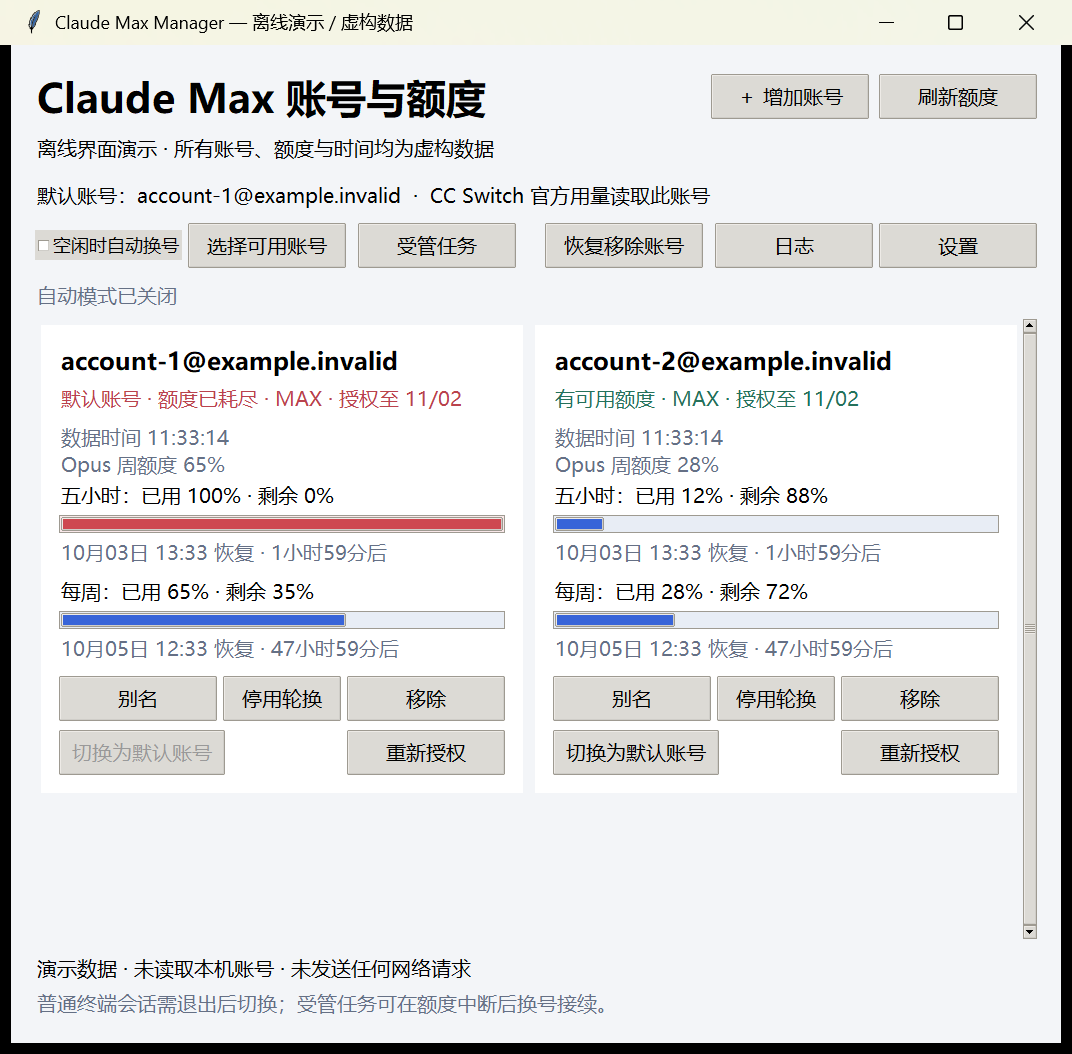
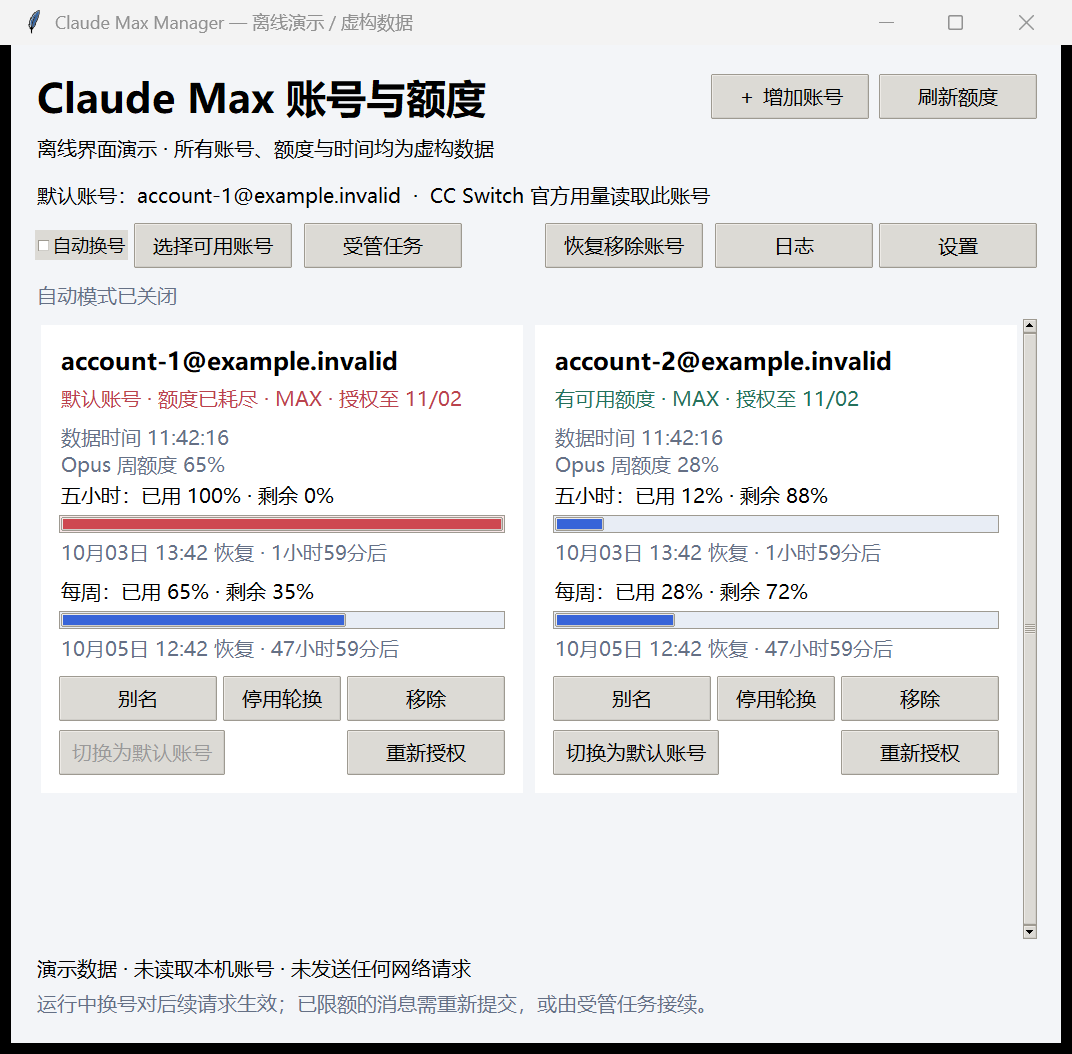
Support verified live account switching without restarting Claude

diff --git a/validate_hot_switch.py b/validate_hot_switch.py
@@ -1,0 +1,132 @@
+"""Explicit live validation of credential reload in ONE isolated CLI process."""
+import argparse
+import hashlib
+import json
+from pathlib import Path
+import queue
+import subprocess
+import sys
+import tempfile
+import threading
+import time
+import uuid
+
+import accounts
+from core import read, write
+from enhanced import Store
+
+
+def main():
+    parser = argparse.ArgumentParser(description=__doc__)
+    parser.add_argument('--available-slot', type=int, required=True)
+    parser.add_argument('--exhausted-slot', type=int, required=True)
+    parser.add_argument('--during-tool', action='store_true',
+                        help='Also prove adoption within a turn, during an isolated sleep tool call.')
+    args = parser.parse_args()
+    available, exhausted = args.available_slot, args.exhausted_slot
+    if available == exhausted or min(available, exhausted) < 1:
+        raise ValueError('Select two different positive slots.')
+    protected = [Path.home()/'.claude.json', accounts.LIVE/'.credentials.json']
+    before = {str(p): hashlib.sha256(p.read_bytes()).hexdigest() for p in protected}
+    with tempfile.TemporaryDirectory(prefix='claude-hot-validation-') as temporary:
+        base = Path(temporary)
+        live, root, cwd = base/'live', base/'accounts', base/'project'
+        cwd.mkdir()
+        for slot in (available, exhausted):
+            for name in ('.credentials.json', '.claude.json'):
+                write(root/f'max-{slot}'/name, read(accounts.ROOT/f'max-{slot}'/name))
+        for name in ('.credentials.json', '.claude.json'):
+            write(live/name, read(root/f'max-{available}'/name))
+        store = Store(root, live, live/'.claude.json', process_check=lambda: [])
+        write(base/'mcp.json', {'mcpServers': {}})
+        session = str(uuid.uuid4())
+        env = accounts.environment(available)
+        env['CLAUDE_CONFIG_DIR'] = str(live)
+        command = [str(accounts.CLI), '-p', '--input-format', 'stream-json',
+            '--output-format', 'stream-json', '--verbose', '--safe-mode', '--tools', 'Bash' if args.during_tool else '',
+            '--strict-mcp-config', str(base/'mcp.json'), '--session-id', session]
+        if args.during_tool:
+            command += ['--allowedTools', 'Bash(sleep:*)']
+        events = queue.Queue()
+        child = subprocess.Popen(command, cwd=str(cwd), env=env, stdin=subprocess.PIPE,
+            stdout=subprocess.PIPE, stderr=subprocess.PIPE, text=True, encoding='utf-8',
+            errors='replace', creationflags=subprocess.CREATE_NO_WINDOW)
+        def reader(stream, kind):
+            for line in stream:
+                events.put((kind, line))
+        for stream, kind in [(child.stdout, 'stdout'), (child.stderr, 'stderr')]:
+            threading.Thread(target=reader, args=(stream, kind), daemon=True).start()
+        print('Isolated CLI started; one PID for all turns:', child.pid, flush=True)
+        store.process_check = lambda: [child.pid] if child.poll() is None else []
+        def turn(label, prompt='Reply exactly OK. Do not use tools.', on_tool=None):
+            if child.poll() is not None:
+                raise RuntimeError('CLI exited before turn '+label)
+            child.stdin.write(json.dumps({'type': 'user', 'session_id': session,
+                'message': {'role': 'user', 'content': prompt}})+'\n')
+            child.stdin.flush()
+            deadline = time.monotonic()+90
+            limit = False
+            while time.monotonic() < deadline:
+                try:
+                    kind, line = events.get(timeout=1)
+                except queue.Empty:
+                    if child.poll() is not None:
+                        raise RuntimeError('CLI exited during '+label)
+                    continue
+                if kind != 'stdout':
+                    continue  # Raw stderr may contain private config; never publish it.
+                try:
+                    event = json.loads(line)
+                except ValueError:
+                    continue
+                if event.get('type') == 'assistant' and event.get('error') == 'rate_limit':
+                    limit = True
+                if on_tool and event.get('type') == 'assistant':
+                    for block in event.get('message', {}).get('content', []):
+                        if block.get('type') == 'tool_use' and block.get('name') == 'Bash':
+                            on_tool()
+                            on_tool = None
+                            break
+                if event.get('type') == 'result':
+                    assert event.get('session_id') == session, 'Session changed'
+                    verdict = 'limit' if limit else ('error' if event.get('is_error') else 'success')
+                    print(label+': '+verdict+'; process still running='+str(child.poll() is None), flush=True)
+                    return verdict
+            raise TimeoutError('No terminal response for '+label)
+        def activate(slot):
+            # Exercise the same public backend called by the desktop interface.
+            store.switch(slot, allow_running=True)
+            time.sleep(2)  # Allow the CLI file watcher to observe an atomic replace.
+        try:
+            assert turn('available before switch') == 'success'
+            if args.during_tool:
+                switched = []
+                def during_tool():
+                    activate(exhausted)
+                    switched.append(True)
+                    print('Swapped credentials after assistant requested Bash sleep, before its next inference.',flush=True)
+                assert turn('exhausted within same turn',
+                    'Use the Bash tool to run exactly sleep 8 once, then reply OK. Do not run any other command.',
+                    during_tool) == 'limit'
+                assert switched, 'Tool boundary was not exercised'
+            else:
+                activate(exhausted)
+                assert turn('exhausted after live switch') == 'limit'
+            activate(available)
+            assert turn('available after second live switch') == 'success'
+            assert child.poll() is None, 'Same process must remain alive'
+            print('PASS: success -> rate_limit -> success with unchanged PID and session.', flush=True)
+        finally:
+            child.stdin.close()
+            try:
+                child.wait(timeout=10)
+            except subprocess.TimeoutExpired:
+                child.terminate()  # Only our isolated, tools-disabled validation process.
+                child.wait(timeout=10)
+    after = {str(p): hashlib.sha256(p.read_bytes()).hexdigest() for p in protected}
+    print('Global configuration unchanged:', before == after, flush=True)
+
+
+if __name__ == '__main__':
+    sys.stdout.reconfigure(encoding='utf-8')
+    main()

diff --git a/test_features.py b/test_features.py
@@ -5,6 +5,7 @@ from pathlib import Path
 import tempfile
 import time
 import unittest
+from types import SimpleNamespace
 from unittest.mock import patch
 import urllib.error
 
@@ -125,19 +126,53 @@ class ContractTests(unittest.TestCase):
         self.assertEqual(retry_seconds('60'),60)
         self.assertEqual(retry_seconds('Thu, 01 Jan 1970 00:10:00 GMT',now=0),600)
 
-    def test_auto_waits_for_process_and_respects_cooldown(self):
+    def test_auto_switches_running_process_and_respects_cooldown(self):
         self.store.save_settings({'auto_enabled':True})
         rows=[self.row(1,100,20),self.row(2,10,20)]
         self.store.process_check=lambda:[8888]
         with patch('enhanced.runner_active',return_value=False), patch.object(self.store,'switch') as switch:
-            self.assertIn('需退出',self.store.auto_step(rows))
-            switch.assert_not_called()
-            self.store.process_check=lambda:[]
             self.assertIn('已自动切换到账号 2',self.store.auto_step(rows))
-            switch.assert_called_once_with(2)
+            switch.assert_called_once_with(2, allow_running=True)
             write(self.root/'rotation.json',{'last_switch':time.time()})
             self.assertIn('冷却',self.store.auto_step(rows))
             self.assertEqual(switch.call_count,1)
+
+    def test_live_switch_preserves_shared_state_and_uses_all_locks(self):
+        self.store.process_check=lambda:[123]
+        config=read(self.store.config)
+        config['mcpServers']={'fixture':{'command':'fixture-command'}}
+        config['projects']={'fixture-project':{'hasTrustDialogAccepted':True}}
+        write(self.store.config,config)
+        def verify(*args,**kwargs):
+            for lock in [self.live/'.oauth_refresh.lock',self.live.with_name('live.lock'),self.store.config.with_name('.claude.json.lock')]:
+                self.assertTrue(lock.is_dir())
+            return SimpleNamespace(returncode=0,stdout=json.dumps({'loggedIn':True,'email':'account-2@example.invalid'}))
+        with patch('enhanced.require_live_switch_support'), patch('core.subprocess.run',side_effect=verify):
+            self.assertIn('后续请求',self.store.switch(2,allow_running=True))
+        self.assertEqual(self.store.current(),'uuid-2')
+        self.assertEqual(read(self.live/'.credentials.json')['mcpOAuth'],{'keep':'fixture'})
+        self.assertEqual(read(self.store.config)['mcpServers'],config['mcpServers'])
+        self.assertEqual(read(self.store.config)['projects'],config['projects'])
+        self.assertFalse((self.root/'pending-switch.json').exists())
+        self.assertFalse((self.live/'.oauth_refresh.lock').exists())
+
+    def test_failed_live_switch_restores_credentials_and_identity(self):
+        self.store.process_check=lambda:[123]
+        before=[read(p) for p in [self.store.config,self.live/'.credentials.json']]
+        rejected=SimpleNamespace(returncode=0,stdout=json.dumps({'loggedIn':True,'email':'unexpected@example.invalid'}))
+        with patch('enhanced.require_live_switch_support'), patch('core.subprocess.run',return_value=rejected):
+            with self.assertRaises(RuntimeError):self.store.switch(2,allow_running=True)
+        self.assertEqual(before,[read(p) for p in [self.store.config,self.live/'.credentials.json']])
+        self.assertFalse((self.root/'pending-switch.json').exists())
+
+    def test_unverified_version_cannot_live_switch(self):
+        self.store.process_check=lambda:[123]
+        before=(self.live/'.credentials.json').read_bytes()
+        version=SimpleNamespace(returncode=0,stdout='0.0.0 (fixture)')
+        with patch('enhanced.subprocess.run',return_value=version):
+            with self.assertRaisesRegex(RuntimeError,'尚未验证'):
+                self.store.switch(2,allow_running=True)
+        self.assertEqual(before,(self.live/'.credentials.json').read_bytes())
 
     def test_exhausted_pool_waits_and_runner_owns_rotation(self):
         self.store.save_settings({'auto_enabled':True})

diff --git a/manager.py b/manager.py
@@ -82,7 +82,7 @@ class App:
         toolbar = ttk.Frame(outer)
         toolbar.pack(fill='x', pady=(0, 12))
         self.auto_value = tk.BooleanVar(value=self.store.settings()['auto_enabled'])
-        ttk.Checkbutton(toolbar, text='空闲时自动换号', variable=self.auto_value, command=self.toggle_auto).pack(side='left')
+        ttk.Checkbutton(toolbar, text='自动换号', variable=self.auto_value, command=self.toggle_auto).pack(side='left')
         ttk.Button(toolbar, text='选择可用账号', command=self.best_account).pack(side='left', padx=6)
         ttk.Button(toolbar, text='受管任务', command=self.managed_dialog).pack(side='left', padx=6)
         ttk.Button(toolbar, text='设置', command=self.settings_dialog).pack(side='right')
@@ -106,7 +106,7 @@ class App:
         self.build_cards()
         self.note = ttk.Label(outer, text='正在读取官方额度…', wraplength=970)
         self.note.pack(anchor='w', pady=(14, 4))
-        ttk.Label(outer, text='普通终端会话需退出后切换；受管任务可在额度中断后换号接续。', foreground='#657085').pack(anchor='w')
+        ttk.Label(outer, text='运行中换号对后续请求生效；已限额的消息需重新提交，或由受管任务接续。', foreground='#657085').pack(anchor='w')
         window.update_idletasks()
         width = max(1050, window.winfo_reqwidth())
         height = min(max(760, window.winfo_reqheight()), window.winfo_screenheight() - 100)
@@ -388,7 +388,7 @@ class App:
             value = tk.StringVar(value=str(current[key]))
             ttk.Entry(body, textvariable=value, width=24).grid(row=row, column=1, padx=12)
             fields[key] = value
-        ttk.Label(body, text='访问令牌按需自动刷新；刷新授权失效时提示重新登录。\n自动模式仅在没有普通 Claude 进程时切换。\n受管任务在确认额度错误并退出后换号、恢复同一会话。', wraplength=520).grid(row=4, column=0, columnspan=2, pady=12)
+        ttk.Label(body, text='访问令牌按需自动刷新；刷新授权失效时提示重新登录。\n已验证 Windows Claude 2.1.288 运行中切换，后续请求生效。\n已经发出的请求不变；受管任务可在额度中断后换号接续。', wraplength=520).grid(row=4, column=0, columnspan=2, pady=12)
         def save():
             try:
                 values = {k: (v.get().strip() if k == 'model' else int(v.get())) for k, v in fields.items()}
@@ -521,14 +521,11 @@ class App:
         try:
             if runner_active():
                 raise RuntimeError('受管任务正在管理账号，请先在“受管任务”中停止它，再手动切换。')
-            processes = self.store.process_check()
-            if processes:
-                raise RuntimeError('Claude Code 仍在运行（PID ' + ', '.join(map(str, processes)) + '）。请在原终端保存进度并退出 Claude，再点击切换。')
             result = self.results.get(slot, {})
             exhausted = any(w.get('utilization', 0) >= 100 for w in result.get('windows', {}).values())
             if exhausted and not messagebox.askyesno('目标账号额度已耗尽', '该账号有额度窗口已耗尽。仍要将它设为默认账号吗？'):
                 return
-            self.run_job(lambda: self.store.switch(slot), 'switch')
+            self.run_job(lambda: self.store.switch(slot, allow_running=True), 'switch')
         except Exception as exc:
             messagebox.showerror('未切换账号', str(exc))
 

diff --git a/enhanced.py b/enhanced.py
@@ -15,6 +15,7 @@ import math
 import os
 from pathlib import Path
 import subprocess
+import sys
 import threading
 import time
 import urllib.error
@@ -81,6 +82,17 @@ def runner_active():
     kernel.CloseHandle.argtypes = [ctypes.c_void_p]
     kernel.CloseHandle(handle)
     return True
+
+
+def require_live_switch_support():
+    """Gate live writes on the exact native CLI version exercised end to end."""
+    if sys.platform != 'win32':
+        raise RuntimeError('运行中切换目前只在 Windows 验证；请退出 Claude 后切换。')
+    result = subprocess.run([str(accounts.CLI), '--version'], capture_output=True,
+                            encoding='utf-8', timeout=15, creationflags=NO_WINDOW)
+    version = result.stdout.strip().split(' ', 1)[0]
+    if result.returncode or version != '2.1.288':
+        raise RuntimeError('此 Claude 版本尚未验证运行中切换（已验证 2.1.288）；请退出 Claude 后切换。')
 
 
 class Store(BasicStore):
@@ -327,10 +339,18 @@ class Store(BasicStore):
                 usable.append((level, slot))
         return min(usable)[1] if usable else None
 
-    def switch(self, slot):
+    def switch(self, slot, *, allow_running=False):
+        # Resolve compatibility before acquiring the official file-write locks.
+        if allow_running and self.process_check():
+            require_live_switch_support()
+            active_pids = self.process_check()
+            for path in (self.live / 'sessions').glob('*.json'):
+                info = read(path)
+                if info.get('pid') in active_pids and info.get('version') not in (None, '2.1.288'):
+                    raise RuntimeError('发现未验证版本的运行中会话，请退出该会话后切换。')
         self.token(slot)
         with self.mutex, directory_lock(self.root / '.manager.lock'), self.credential_locks(self.live, self.config):
-            message = super().switch(slot)
+            message = super().switch(slot, allow_running=allow_running)
             write(self.root / 'rotation.json', {'last_switch': time.time(), 'slot': slot})
             self.log('account_switched', slot=slot)
             return message
@@ -354,7 +374,5 @@ class Store(BasicStore):
             return '没有额度充足且启用的备用账号，等待额度恢复'
         if self.relevant(current) - self.relevant(next(r for r in rows if r['slot'] == target)) < settings['min_improvement']:
             return '备用额度差异较小，保持当前账号'
-        if self.process_check():
-            return '已有可用备用账号；普通会话需退出，受管会话将在限额中断后自动接续'
-        self.switch(target)
-        return f'已自动切换到账号 {target}'
+        self.switch(target, allow_running=True)
+        return f'已自动切换到账号 {target}，后续请求使用新账号；已限额的消息需重新提交或由受管任务接续'

diff --git a/core.py b/core.py
@@ -146,9 +146,9 @@ class Store:
             result['error'] = '网络超时或响应无效，稍后刷新'
         return result
 
-    def switch(self, slot):
+    def switch(self, slot, *, allow_running=False):
         processes = self.process_check()
-        if processes:
+        if processes and not allow_running:
             raise RuntimeError('Claude Code 仍在运行（PID ' + ', '.join(map(str, processes)) +
                 '）。请先在原终端保存进度并退出 Claude，再切换；本工具不会强行终止任务。')
         incoming_config = read(self.profile(slot) / '.claude.json')
@@ -183,7 +183,7 @@ class Store:
                     'passesEligibilityCache', 'clientDataCacheSlots', 'promoStartupStatusCache',
                     'modelAccessCache', 'orgModelDefaultCache', 'cachedArtifactRoster']:
             updated.pop(key, None)
-        if self.process_check():
+        if self.process_check() and not allow_running:
             raise RuntimeError('切换前发现新启动的 Claude Code，已取消切换。')
         pending = self.root / 'pending-switch.json'
         write(pending, {'from': old_slot, 'to': slot})
@@ -206,4 +206,6 @@ class Store:
             write(self.config, original_config)
             pending.unlink(missing_ok=True)
             raise
-        return '已切换到 ' + identity['emailAddress'] + '。新启动的 Claude Code 将使用此账号。'
+        return ('已切换到 ' + identity['emailAddress'] +
+                ('。运行中会话的后续请求将读取新凭据；已发出的请求不变，限额后的消息需重新提交。' if allow_running
+                 else '。新启动的 Claude Code 将使用此账号。'))

diff --git a/docs/hot-switch.md b/docs/hot-switch.md
@@ -1,0 +1,42 @@
+# 运行中切换：实现与实测边界
+
+## 参考实现实际做了什么
+
+检查 [claude-swap 的 switcher.py](https://github.com/realiti4/claude-swap/blob/main/src/claude_swap/switcher.py) 中 `_perform_switch`、[credentials.py](https://github.com/realiti4/claude-swap/blob/main/src/claude_swap/credentials.py) 中 `_write_active_credentials_file` 和 [claude_locks.py](https://github.com/realiti4/claude-swap/blob/main/src/claude_swap/claude_locks.py)：它没有模拟 `/login`、发送终端按键或重启 Claude。它保存离开账号的凭据，在官方文件锁保护下原子写入目标 OAuth 凭据和 `oauthAccount`，依赖 Claude Code 检测凭据变化并重读。
+
+本机 Claude Code 2.1.288 的文件凭据读取路径也能观察到对 `.credentials.json` 修改时间变化的检查及缓存清除。不过，代码标记本身不构成运行中切换成功的证据，所以随后进行了真实请求测试。
+
+## 本工具的实现
+
+1. 确认 Windows、本机 CLI 版本及已记录的运行中会话版本。当前运行中切换只放行实测过的 2.1.288；其他版本可以退出 CLI 后使用普通切换。
+2. 检查目标令牌，需要时先尝试刷新。
+3. 按同一顺序持有工具锁、`.oauth_refresh.lock`、配置目录的 legacy 锁以及身份配置锁；锁存活期间更新心跳，不抢占别人的锁。
+4. 重新读取并备份当前身份和最新令牌，只替换账号 OAuth 区块及身份信息，保留 MCP 授权、项目和用户设置。
+5. 原子替换文件，通过官方本地 `auth status` 检查身份；失败恢复原文件，持久化事务记录用于处理异常中断。
+6. 返回“后续请求生效”，不声称已经改变某个正在传输的请求，也不向终端注入“继续”。
+
+桌面手动切换和阈值自动切换调用同一个后端。受管任务继续使用自己的调度器；桌面端检测其运行状态，避免两套调度同时换号。
+
+## 真实验证（2026-10-03）
+
+环境：Windows、官方 Claude Code 2.1.288。独立临时 `CLAUDE_CONFIG_DIR`、独立测试项目，使用自己的两个已授权 Max 账号。真实凭据和会话不进入此仓库。
+
+| 场景 | 观察结果 |
+| --- | --- |
+| 可用账号发起请求 | 成功 |
+| 保持进程，后端切换到耗尽账号，再发起请求 | 真实 `rate_limit` |
+| 保持进程，切回可用账号，再发起请求 | 成功 |
+| 一轮任务的 Bash 等待工具调用阶段切换到耗尽账号 | 该轮后续推理返回真实 `rate_limit` |
+| 工具阶段切换后，再切回可用账号 | 原进程继续成功 |
+
+各轮 PID 和会话 ID 不变；没有退出、重启或 `--resume`。脚本结束时只关闭自己创建的测试进程，并删除临时凭据。全局身份与凭据文件的前后哈希一致。
+
+`validate_hot_switch.py` 可复现这些路径。`test_features.py` 另覆盖运行中切换的配置保留、三把官方锁、校验失败回滚、未知版本拒绝以及自动调度和冷却。
+
+## 不应扩大解读的部分
+
+- 实测采用官方 CLI 的常驻 `stream-json` 输入，覆盖多轮及一轮内后续推理；未逐一验证所有 IDE 扩展、远程会话或其他 CLI 版本。
+- 运行中切换只影响读取这些凭据文件的后续请求。使用独立配置目录或显式环境令牌的会话不会因此自动换号。
+- 原终端已因限额停在输入框时，需要用户发出下一条指令；自动提交和故障后接续由受管任务负责。
+- 跨账号不会迁移服务端提示缓存，也不会增加订阅额度。
+- 自动 OAuth 刷新的真实成功验收仍因服务端 403/429 未闭合；热切换成功不代表长期授权续期已经验证。
